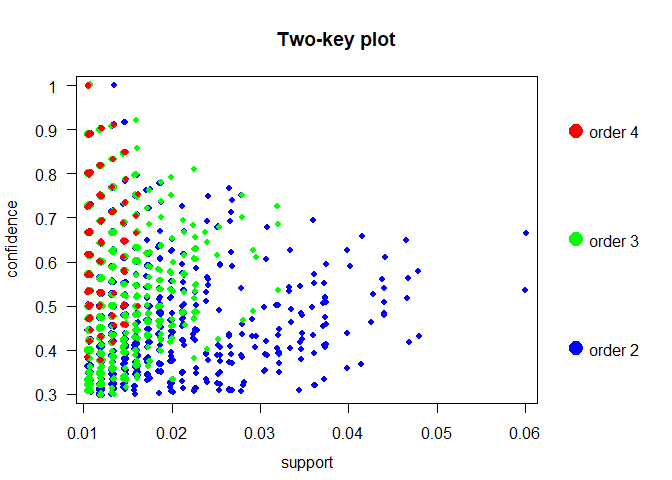
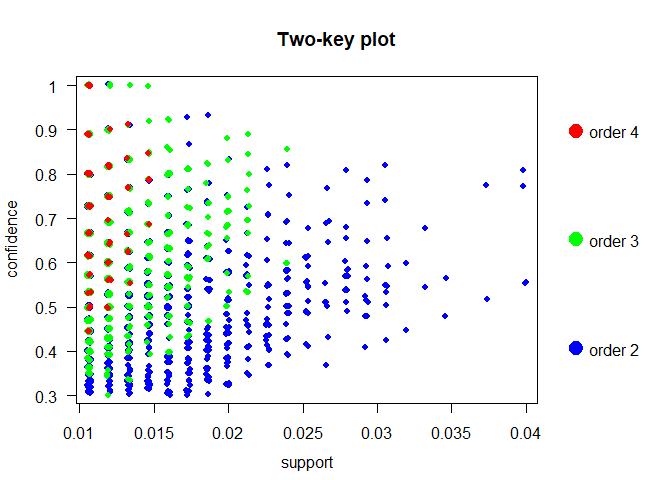
yeahs

diff --git a/README.md b/README.md
@@ -35,8 +35,9 @@ library(readxl)
 An overview of the iperbole dataset, downloadable here: <http://dati.comune.bologna.it/node/640>
 
 <center>
+<img src="![0](Images/0.png)" width="50%" />
 </center>
-![0](Images/0.png) <br/>
+<br/>
 
 The R package 'reticulate' helps us integrating the Python language in the R environment. In the Iperbole dataset there are not latitude and longitude coordinates for the commercial activities in Bologna. We can get them using the geographic information we already have and geocoding it through the Mapbox API's using Python. Then the general analysis is implemented using R. <br/>
 
@@ -88,9 +89,7 @@ geocoded <- dplyr::distinct(geocoded, lat, lon, .keep_all = TRUE)
 
 <br/> Having obtained thir lat/lon coordinates, the position of the commercial activities in Bologna are plotted using Tableau <br/>
 <center>
-</center>
-<center>
-![0](Images/1.png)
+<img src="![0](Images/1.png)" width="90%" />
 </center>
 <br/>
 
@@ -125,16 +124,16 @@ head(path_vis,10)
 ```
 
     ##         lon      lat path ind
-    ## 1  11.35349 44.49532    1   1
-    ## 2  11.34565 44.48749    1   1
-    ## 3  11.34353 44.48536    1   1
-    ## 4  11.34690 44.48873    1   1
-    ## 5  11.34272 44.48455    1   1
-    ## 6  11.35194 44.49377    1   1
-    ## 7  11.34790 44.48973    1   1
-    ## 8  11.34061 44.48245    1   1
-    ## 9  11.34571 44.48754    1   1
-    ## 10 11.34886 44.49069    1   1
+    ## 1  11.33935 44.48807    1   1
+    ## 2  11.34665 44.49537    1   1
+    ## 3  11.34178 44.49050    1   1
+    ## 4  11.34416 44.49288    1   1
+    ## 5  11.34058 44.48930    1   1
+    ## 6  11.34291 44.49163    1   1
+    ## 7  11.33797 44.48669    1   1
+    ## 8  11.34604 44.49476    1   1
+    ## 9  11.34352 44.49224    1   1
+    ## 10 11.34703 44.49575    1   1
 
 <br/> Then, in order to infer if a person was at a certain activity, the individual positions are matched with the positions of the geocoded commercial activities in Bologna on the basis of an arbitrary minimum distance(Euclidean distance).
 
@@ -171,12 +170,12 @@ head(result)
 ```
 
     ##        lon      lat         dist path ind
-    ## 1 11.35381 44.49555 3.918118e-04    1   1
-    ## 2       NA       NA 5.935997e-04    1   1
-    ## 3       NA       NA 2.241884e-03    1   1
-    ## 4       NA       NA 6.356600e-04    1   1
-    ## 5       NA       NA 3.329103e-03    1   1
-    ## 6 11.35191 44.49382 5.586108e-05    1   1
+    ## 1       NA       NA 0.0016879663    1   1
+    ## 2 11.34673 44.49548 0.0001317442    1   1
+    ## 3       NA       NA 0.0005721107    1   1
+    ## 4 11.34417 44.49312 0.0002404279    1   1
+    ## 5       NA       NA 0.0006089587    1   1
+    ## 6 11.34299 44.49179 0.0001758203    1   1
 
 <font size = '2'> Adjusting the dataset for the association rules discovery eliminating the non-matched observations </font>
 
@@ -185,13 +184,13 @@ result <- na.omit(result)
 head(result)
 ```
 
-    ##         lon      lat         dist path ind
-    ## 1  11.35381 44.49555 3.918118e-04    1   1
-    ## 6  11.35191 44.49382 5.586108e-05    1   1
-    ## 11 11.34732 44.48925 3.375501e-04    1   1
-    ## 14 11.35097 44.49251 4.641712e-04    1   1
-    ## 15 11.35097 44.49251 4.544435e-04    1   1
-    ## 21 11.34480 44.48720 4.013597e-04    2   1
+    ##        lon      lat         dist path ind
+    ## 2 11.34673 44.49548 0.0001317442    1   1
+    ## 4 11.34417 44.49312 0.0002404279    1   1
+    ## 6 11.34299 44.49179 0.0001758203    1   1
+    ## 7 11.33821 44.48682 0.0002777571    1   1
+    ## 8 11.34556 44.49484 0.0004844213    1   1
+    ## 9 11.34343 44.49244 0.0002176756    1   1
 
 Merging process to retrieve the index of the matched company
 
@@ -204,16 +203,16 @@ head(final,10)
 ```
 
     ##         lon      lat   ID         dist path ind itemset_id
-    ## 1  11.32825 44.49041 6872 0.0004577361    4  31       31 4
-    ## 2  11.32834 44.48821 3561 0.0004020383    6  28       28 6
-    ## 3  11.32834 44.48821 3561 0.0003613516    5  28       28 5
-    ## 4  11.32834 44.48821 3561 0.0003853404    4  28       28 4
-    ## 5  11.32834 44.48821 3561 0.0003648597   15  28      28 15
-    ## 6  11.32834 44.48821 3561 0.0001833690    2   3        3 2
-    ## 7  11.32834 44.48821 3561 0.0004016086    5  28       28 5
-    ## 8  11.32834 44.48821 3561 0.0003653974    3  28       28 3
-    ## 9  11.32834 44.48821 3561 0.0004414480    8  28       28 8
-    ## 10 11.32834 44.48821 3561 0.0004571947    4  28       28 4
+    ## 1  11.32834 44.48821 3561 3.247483e-04   11  20      20 11
+    ## 2  11.32993 44.49048 2325 1.989156e-04   12  20      20 12
+    ## 3  11.32993 44.49048 2325 3.135245e-04   11  20      20 11
+    ## 4  11.33014 44.49086 2485 3.243349e-04    5  20       20 5
+    ## 5  11.33070 44.49076 3122 2.503902e-04    9  20       20 9
+    ## 6  11.33070 44.49076 3122 3.531150e-04   10  20      20 10
+    ## 7  11.33070 44.49076 3122 2.107254e-04   10  20      20 10
+    ## 8  11.33080 44.49036 6078 3.903161e-04    6  32       32 6
+    ## 9  11.33080 44.49036 6078 2.281117e-04   12  39      39 12
+    ## 10 11.33089 44.49056 6065 8.375626e-05    9  32       32 9
 
 Then one needs to transform the data into a transaction dataset
 
@@ -258,11 +257,11 @@ association.rules <- arules::apriori(tr, parameter = list(supp=0.01, conf=0.3,ma
     ## Absolute minimum support count: 7 
     ## 
     ## set item appearances ...[0 item(s)] done [0.00s].
-    ## set transactions ...[2057 item(s), 750 transaction(s)] done [0.00s].
-    ## sorting and recoding items ... [279 item(s)] done [0.00s].
+    ## set transactions ...[2040 item(s), 751 transaction(s)] done [0.01s].
+    ## sorting and recoding items ... [283 item(s)] done [0.00s].
     ## creating transaction tree ... done [0.00s].
     ## checking subsets of size 1 2 3 4 5 done [0.00s].
-    ## writing ... [2047 rule(s)] done [0.00s].
+    ## writing ... [1744 rule(s)] done [0.00s].
     ## creating S4 object  ... done [0.00s].
 
 ``` r
@@ -270,16 +269,16 @@ inspect(association.rules[1:10])
 ```
 
     ##      lhs       rhs    support    confidence lift     count
-    ## [1]  {1409} => {1649} 0.01066667 0.8888889  51.28205  8   
-    ## [2]  {1649} => {1409} 0.01066667 0.6153846  51.28205  8   
-    ## [3]  {6738} => {1776} 0.01066667 0.8000000  54.54545  8   
-    ## [4]  {1776} => {6738} 0.01066667 0.7272727  54.54545  8   
-    ## [5]  {6738} => {1649} 0.01200000 0.9000000  51.92308  9   
-    ## [6]  {1649} => {6738} 0.01200000 0.6923077  51.92308  9   
-    ## [7]  {1776} => {1649} 0.01333333 0.9090909  52.44755 10   
-    ## [8]  {1649} => {1776} 0.01333333 0.7692308  52.44755 10   
-    ## [9]  {1184} => {1533} 0.01066667 1.0000000  25.86207  8   
-    ## [10] {5462} => {3209} 0.01066667 1.0000000  41.66667  8
+    ## [1]  {1722} => {1966} 0.01198402 0.8181818  51.20455 9    
+    ## [2]  {1966} => {1722} 0.01198402 0.7500000  51.20455 9    
+    ## [3]  {2130} => {2341} 0.01065246 0.7272727  49.65289 8    
+    ## [4]  {2341} => {2130} 0.01065246 0.7272727  49.65289 8    
+    ## [5]  {1344} => {1695} 0.01198402 1.0000000  50.06667 9    
+    ## [6]  {1695} => {1344} 0.01198402 0.6000000  50.06667 9    
+    ## [7]  {2843} => {2681} 0.01065246 0.8888889  19.07302 8    
+    ## [8]  {3016} => {2518} 0.01065246 0.8000000  23.10769 8    
+    ## [9]  {2518} => {3016} 0.01065246 0.3076923  23.10769 8    
+    ## [10] {2715} => {2834} 0.01065246 0.7272727  13.32151 8
 
 ``` r
 plot(association.rules, method = "two-key plot")
@@ -313,20 +312,20 @@ final_cat <- na.omit(final_cat)
 head(final_cat)
 ```
 
-    ##         lon      lat                     Commercial type         dist path
-    ## 15 11.32918 44.49045 Tabacco e altri generi di monopolio 0.0003147564    6
-    ## 16 11.32918 44.49045 Tabacco e altri generi di monopolio 0.0003730165    9
-    ## 17 11.32918 44.49045 Tabacco e altri generi di monopolio 0.0004194769   14
-    ## 18 11.32918 44.49045 Tabacco e altri generi di monopolio 0.0001991561    6
-    ## 19 11.32978 44.49097 Articoli per l'igiene della persona 0.0001661084    5
-    ## 20 11.32978 44.49097 Articoli per l'igiene della persona 0.0003595585    3
-    ##    ind itemset_id
-    ## 15  31       31 6
-    ## 16  31       31 9
-    ## 17  31      31 14
-    ## 18  29       29 6
-    ## 19  29       29 5
-    ## 20  31       31 3
+    ##        lon      lat         Commercial type         dist path ind
+    ## 4 11.33014 44.49086            Oggettistica 0.0003243349    5  20
+    ## 5 11.33070 44.49076 Alimentari confezionati 0.0002503902    9  20
+    ## 6 11.33070 44.49076 Alimentari confezionati 0.0003531150   10  20
+    ## 7 11.33070 44.49076 Alimentari confezionati 0.0002107254   10  20
+    ## 8 11.33080 44.49036   Gastronomia Salumeria 0.0003903161    6  32
+    ## 9 11.33080 44.49036   Gastronomia Salumeria 0.0002281117   12  39
+    ##   itemset_id
+    ## 4       20 5
+    ## 5       20 9
+    ## 6      20 10
+    ## 7      20 10
+    ## 8       32 6
+    ## 9      39 12
 
 ``` r
 transactionData_cat <- ddply(final_cat,c("itemset_id"),
@@ -343,9 +342,8 @@ itemFrequencyPlot(tr_cat,topN=10,type="relative",col=brewer.pal(8,'Pastel2'), ma
 ![](README_files/figure-markdown_github/unnamed-chunk-11-1.png) <br/> The positions of the commercial activities in Bologna are then plotted using Tableau according to their sector.
 
 <center>
+<img src="![0](Images/2.png)" width="90%" />
 </center>
-![0](Images/2.png)
-
 <br/> Performing the Market Basket Analysis through the apriori algorithm on the sector
 
 ``` r
@@ -364,26 +362,26 @@ association.rules_cat <- arules::apriori(tr_cat, parameter = list(supp=0.03, con
     ##  filter tree heap memopt load sort verbose
     ##     0.1 TRUE TRUE  FALSE TRUE    2    TRUE
     ## 
-    ## Absolute minimum support count: 22 
+    ## Absolute minimum support count: 21 
     ## 
     ## set item appearances ...[0 item(s)] done [0.00s].
-    ## set transactions ...[1656 item(s), 737 transaction(s)] done [0.00s].
-    ## sorting and recoding items ... [29 item(s)] done [0.00s].
+    ## set transactions ...[1607 item(s), 733 transaction(s)] done [0.00s].
+    ## sorting and recoding items ... [39 item(s)] done [0.00s].
     ## creating transaction tree ... done [0.00s].
     ## checking subsets of size 1 2 3 done [0.00s].
-    ## writing ... [12 rule(s)] done [0.00s].
+    ## writing ... [9 rule(s)] done [0.00s].
     ## creating S4 object  ... done [0.00s].
 
 ``` r
 inspect(association.rules_cat[1:5])
 ```
 
-    ##     lhs                            rhs                            support confidence     lift count
-    ## [1] {Profumeria}                => {Abbigliamento e accessori} 0.04070556  0.7500000 1.738208    30
-    ## [2] {Strumenti musicali dischi} => {Abbigliamento e accessori} 0.03527815  0.5909091 1.369497    26
-    ## [3] {Mobili}                    => {Oggetti preziosi}          0.04206242  0.5438596 3.485431    31
-    ## [4] {Mobili}                    => {Abbigliamento e accessori} 0.04206242  0.5438596 1.260455    31
-    ## [5] {Libri}                     => {Abbigliamento e accessori} 0.04477612  0.5000000 1.158805    33
+    ##     lhs                                rhs                            support confidence     lift count
+    ## [1] {Orologi da polso}              => {Abbigliamento e accessori} 0.03274216  0.9230769 2.469399    24
+    ## [2] {mobili}                        => {Abbigliamento}             0.03001364  0.5945946 2.157613    22
+    ## [3] {Integratori alimentari}        => {Cartoleria}                0.04638472  0.7234043 3.734192    34
+    ## [4] {Ferramenta}                    => {Cartoleria}                0.04638472  0.6071429 3.134054    34
+    ## [5] {Materiale hardware e software} => {Abbigliamento e accessori} 0.04092769  0.5172414 1.383715    30
 
 ``` r
 plot(association.rules_cat, method = "graph")
